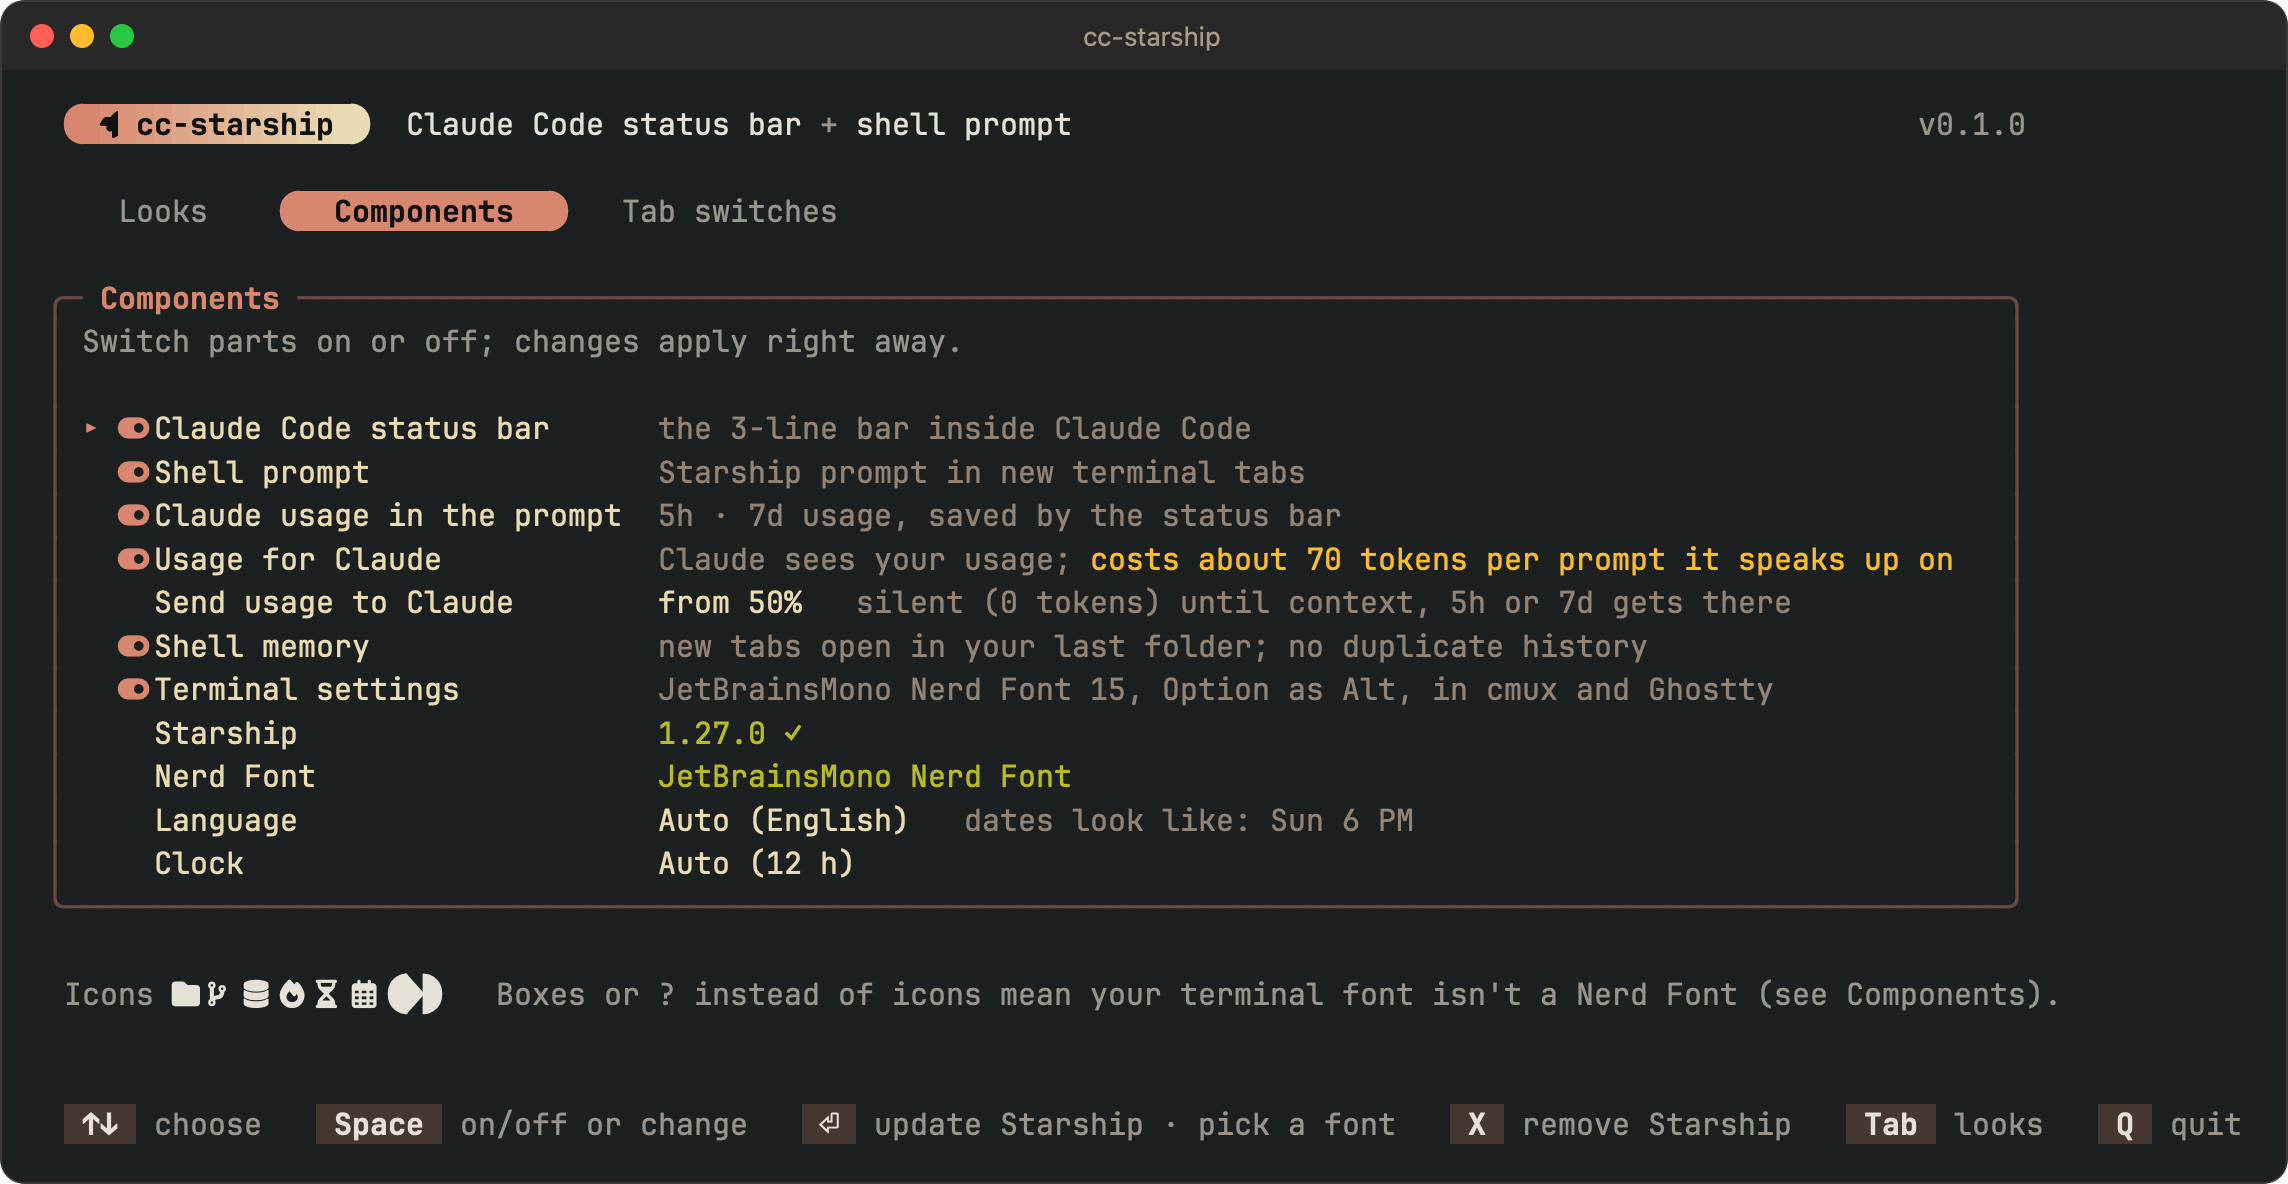
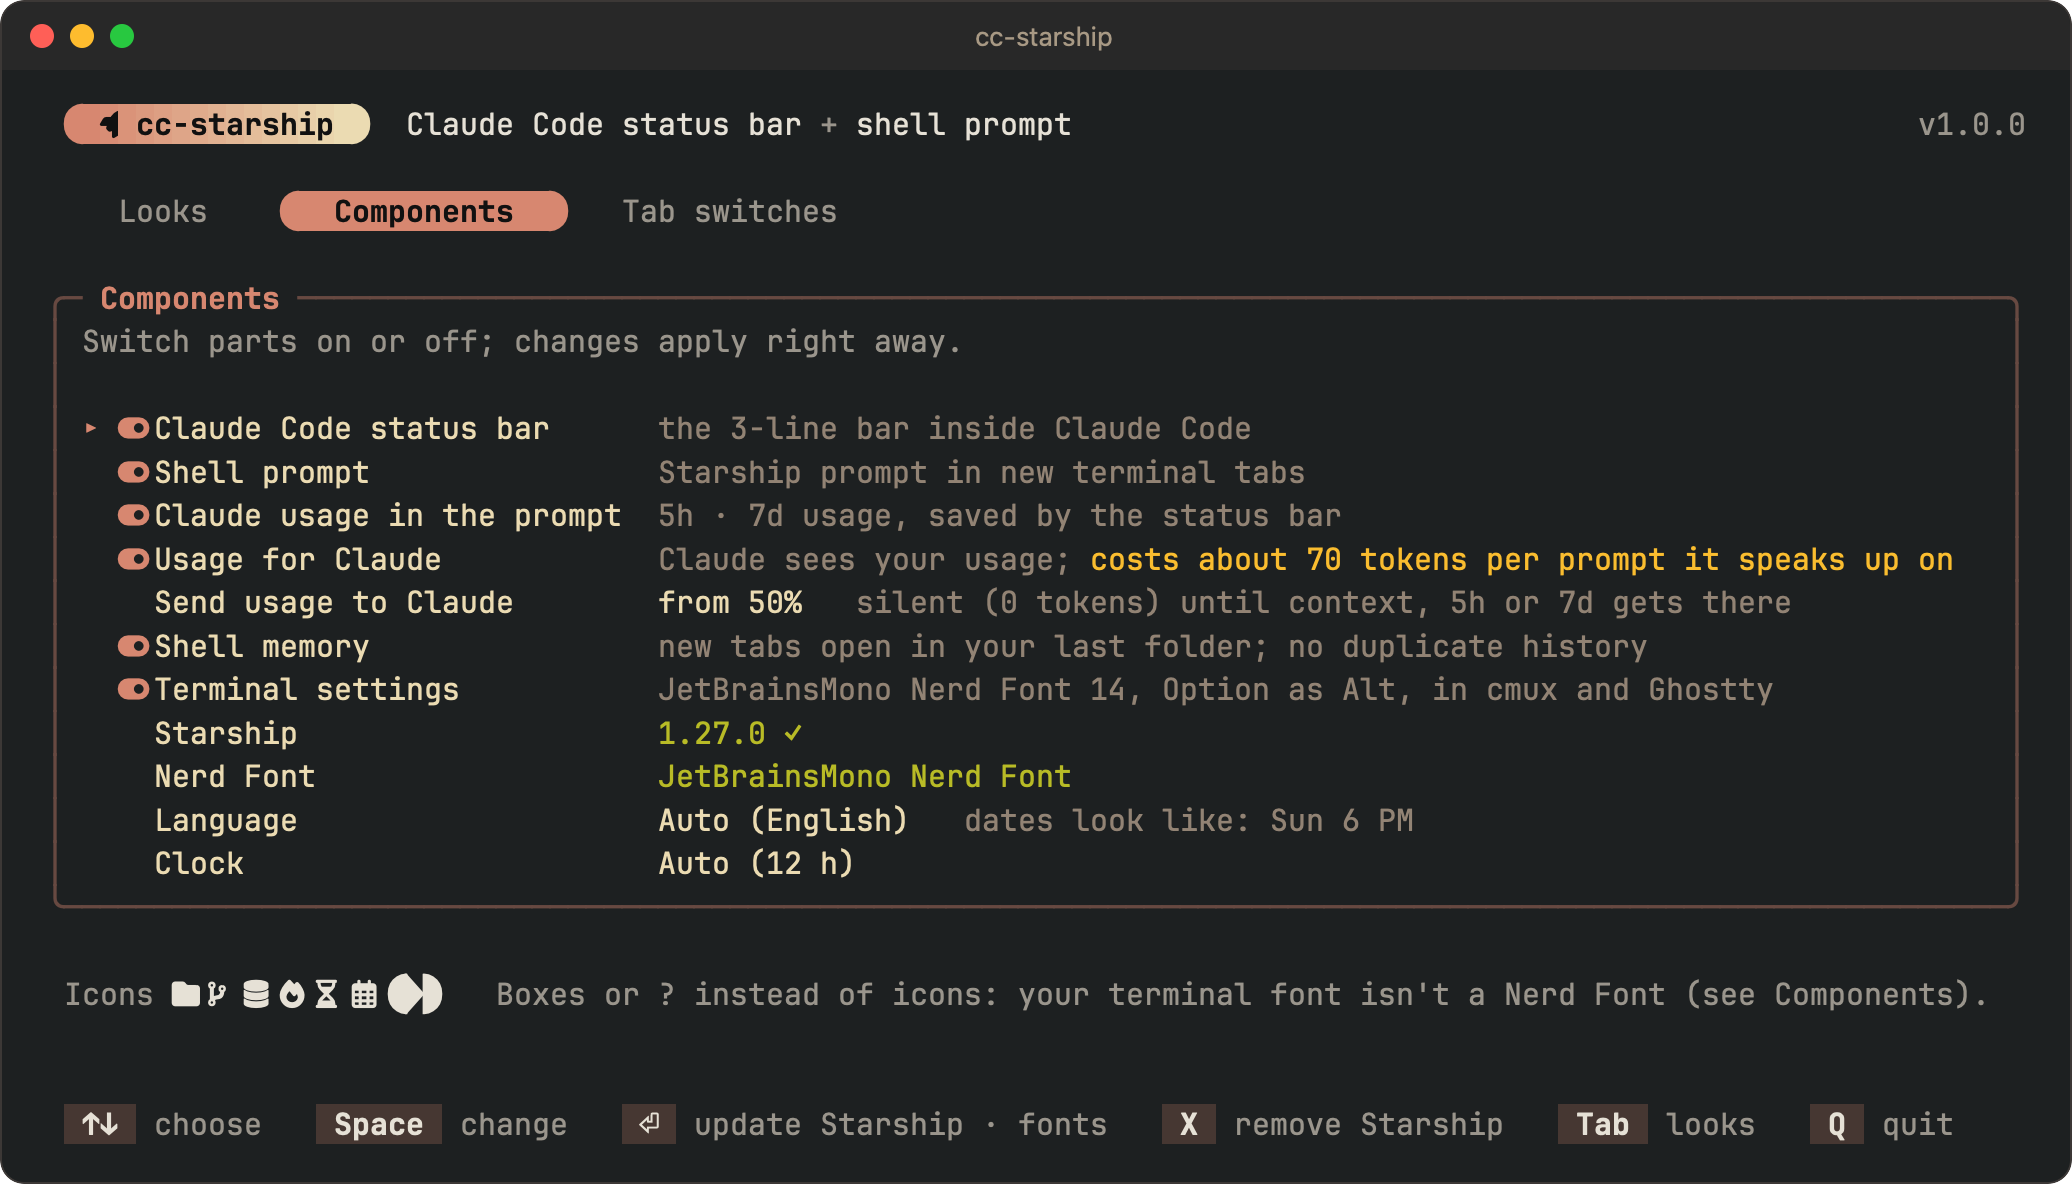
Panel hints fit on one line; README and screenshots for 1.0.0
- Components key hints shortened (Space: change; Enter: update Starship ·
  fonts) so they fit one line at the usual widths; the font tip is shorter.
- Screenshots regenerated: v1.0.0, the preview after it renders (the capture
  now takes the last Looks frame), aligned grid.
- README: fonts this app installed are removed on uninstall, a failed font
  download no longer stops the install, a downloaded Starship goes with the
  program folder.

Claude-Session: https://claude.ai/code/session_01QPiHhX5DjpwWFDvGdXtfcV

diff --git a/src/tui.ts b/src/tui.ts
@@ -259,7 +259,7 @@ function fontHint(theme: Theme): string {
   const terminalApp = Deno.env.get("TERM_PROGRAM") === "Apple_Terminal";
   const tip = terminalApp
     ? "Terminal.app's default font has none: pick a Nerd Font in Terminal settings, or use iTerm, Ghostty or cmux."
-    : "Boxes or ? instead of icons mean your terminal font isn't a Nerd Font (see Components).";
+    : "Boxes or ? instead of icons: your terminal font isn't a Nerd Font (see Components).";
   return ` ${paint(theme.dim, "Icons")} ${paint(theme.text, icons)}   ${paint(theme.dim, tip)}`;
 }
 
@@ -394,8 +394,8 @@ export async function runUi(): Promise<number> {
       ...(roomy ? ["", fontHint(t)] : []),
       ...footer([
         ["↑↓", "choose"],
-        ["Space", "on/off or change"],
-        ["⏎", "update Starship · pick a font"],
+        ["Space", "change"],
+        ["⏎", "update Starship · fonts"],
         ["X", "remove Starship"],
         ["Tab", "looks"],
         ["Q", "quit"],

diff --git a/README.md b/README.md
@@ -141,7 +141,8 @@ left alone. On Windows it uses the Starship prompt.
 
 **Terminal settings.** The same font and keys everywhere: JetBrainsMono Nerd Font, size 14,
 and Option working as Alt in cmux and Ghostty. In Windows Terminal it becomes the default font
-for every profile. The font is installed if missing.
+for every profile. The font is installed if missing (if the download fails, everything else
+still installs; get the font later from Components → Nerd Font).
 
 **oh-my-posh.** If it still starts in a profile or draws your status line, install and `status`
 say so: two prompt engines conflict, and Starship draws the same kind of prompt about 3× faster.
@@ -178,7 +179,8 @@ Uninstall, or switching a part off, uses that record.
 | shell memory | the same profiles, in a block of its own | the block removed |
 | Windows PowerShell's script setting, only when it blocks scripts (a new Windows account does, so no profile would run) | your account's execution policy, set to `RemoteSigned` (PowerShell 7's default) | your previous setting, unless you changed it since |
 | terminal font and keys | cmux `config.ghostty`, `~/.config/ghostty/config`; Windows Terminal `settings.json` | the block removed; Windows Terminal's face and size put back |
-| Starship itself, if missing or outdated | updated through brew, winget or Scoop when they installed it; otherwise the latest release is downloaded and its checksum verified | left installed (`cc-starship starship remove` removes it) |
+| Nerd Fonts this app installed | your fonts folder (Windows: per user, no admin needed) | removed |
+| Starship itself, if missing or outdated | updated through brew, winget or Scoop when they installed it; otherwise the latest release is downloaded into the program folder and its checksum verified | the downloaded one goes with the program folder; one from brew, winget or Scoop stays (`cc-starship starship remove` removes it) |
 
 Settings files with comments are never rewritten: the program stops and says so instead.
 
